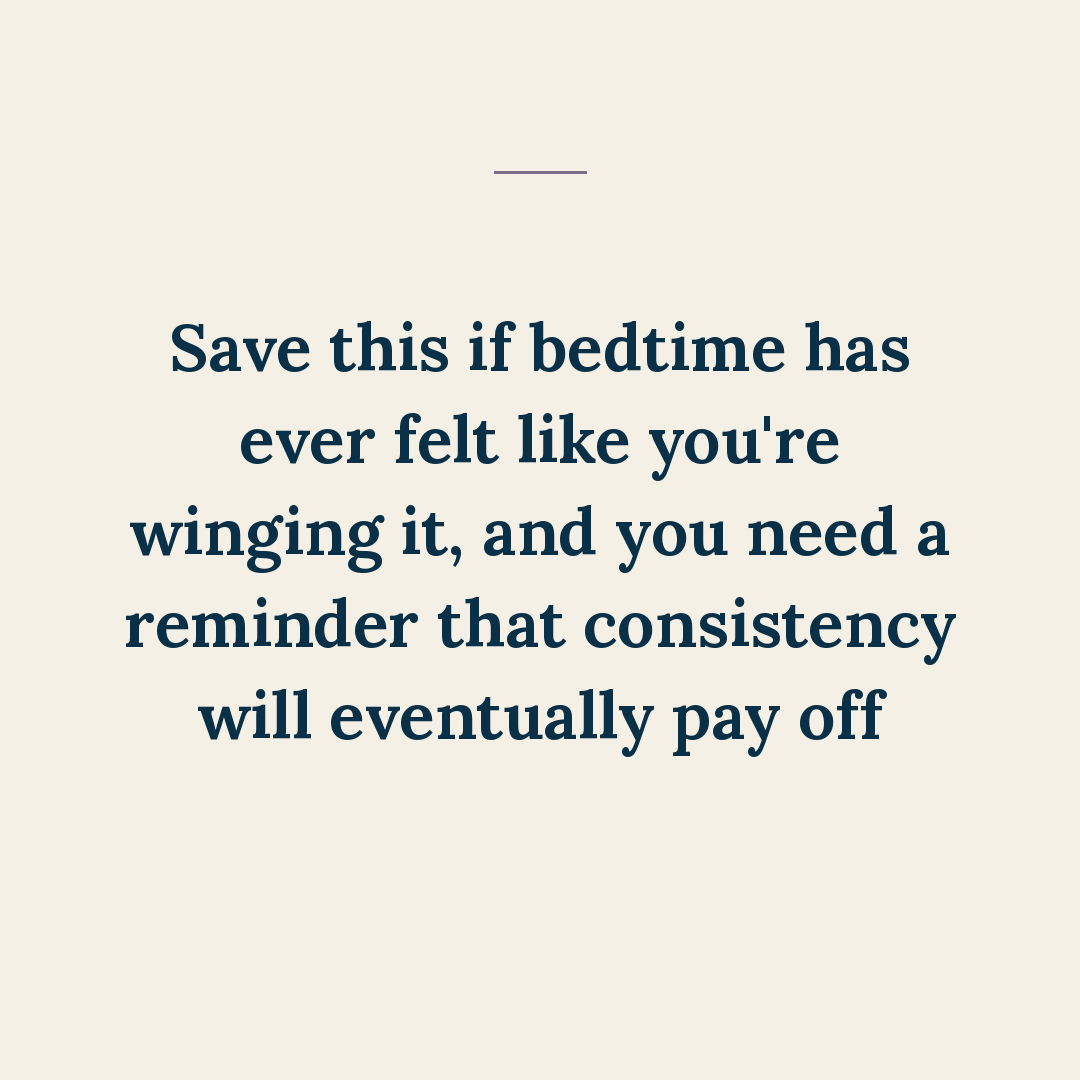
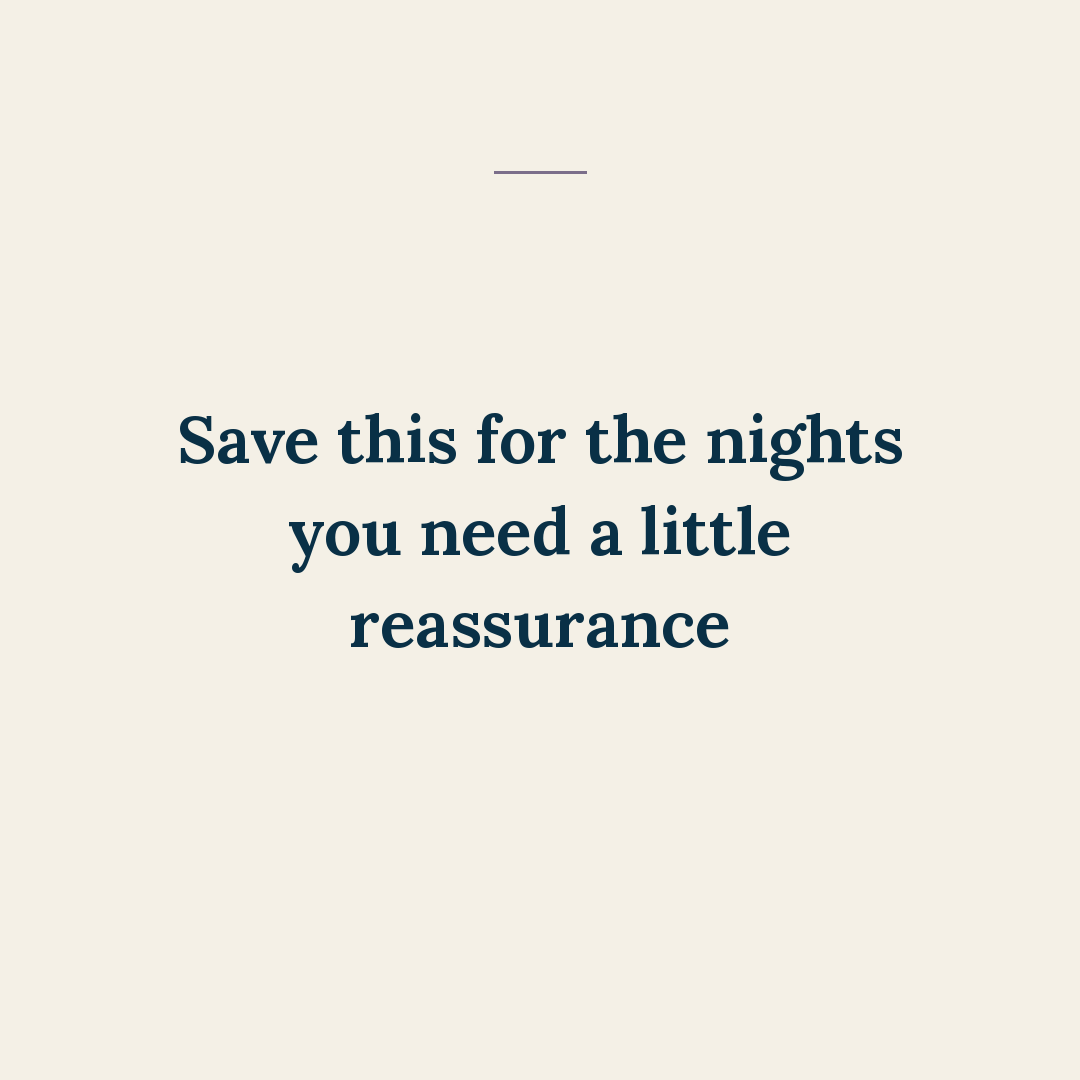
Add 60-thought-i-was-doing-bedtime-wrong (60 - Thought I Was Doing Bedtime Wrong)

Changed region(s): [[0.1222, 0.275, 0.8861, 0.6111], [0.1833, 0.6417, 0.825, 0.7028]]

diff --git a/posts/60-thought-i-was-doing-bedtime-wrong/slides.md b/posts/60-thought-i-was-doing-bedtime-wrong/slides.md
@@ -13,8 +13,23 @@ I thought I was doing bedtime wrong…
 05  "Good enough and consistent" beats "perfect and different every night"
 
 ## Closer (save)
-Save this if bedtime has ever felt like you're winging it, and you need a reminder that consistency will eventually pay off
+Save this for the nights you need a little reassurance
 
 REVISED 2026-08-16 per Ben's review (slide 1 + closer wording).
+
+CLOSER REWRITTEN 2026-08-16, audit pass. The previous line — *"Save this if bedtime has ever felt
+like you're winging it, and you need a reminder that consistency will eventually pay off"* — failed
+two ways at once and was the worst offender in the week on both:
+
+  · **Length.** It rendered as FIVE lines on the closing card. Every other closer this week runs
+    one to three. A closing card is a beat, not a paragraph; at five lines it stops being a card.
+  · **Hook callback.** Ben, Aug 16: *"I think you are trying to tie everything back to the hook a
+    little too much. Keep it general like follow/save for encouragement, support, reminders, tips."*
+    "if bedtime has ever felt like you're winging it" is a callback to this post's exact premise.
+
+The replacement offers support without restating the hook, which is the standard now
+(memory `drift-generic-closer-ctas`). **Rule of thumb for closers: ≤12 words, and it should still
+make sense if you pasted it onto a different post in the same lane.** If it only works on this one
+post, it's a callback — rewrite it.
 
 Render with render_cover / render_items_for_post / render_follow (render_save alias), weight 650, bg BG_CREAM.
